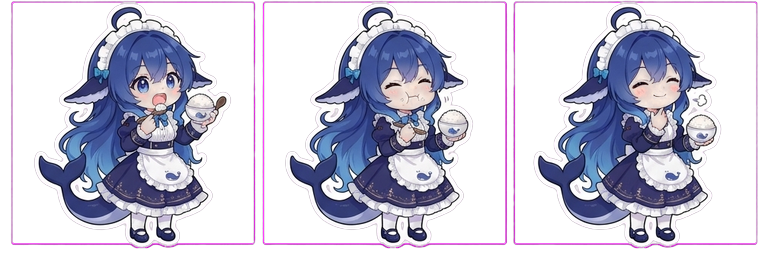
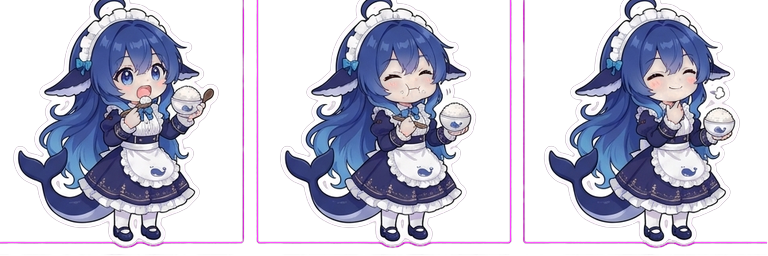
fix(assets): rurtair 外 bbox 去除（--crop-margin）+ play/drag 换 ojxw3 重制版
- slice-sheet.py 新增 --crop-margin：切分前四边裁剪，去掉 AI 给网格加的渐变外框线（rurtair 距边 17px、7px 粗）
- rurtair 重建：eat 用 crop-30 版（渐变带 y14-24 剥净，角色完整）
- ojxw3：行1（非全身）删除；行2 play 3 帧、行3 drag 3 帧（重制版）替换旧 2 帧版
- manifest：drag frames 2→3
- 验证：assets 全 200、浏览器冒烟 OK

diff --git a/scripts/slice-sheet.py b/scripts/slice-sheet.py
@@ -182,11 +182,15 @@ def main():
     ap.add_argument('--key-hi', type=int, default=28, help='色键阈值上界（默认 28）')
     ap.add_argument('--out', default='assets/raw/slices')
     ap.add_argument('--size', type=int, default=256)
+    ap.add_argument('--crop-margin', type=int, default=0, help='切分前从四边裁剪 N px（去掉 AI 加的网格外框线）')
     args = ap.parse_args()
 
     if not (args.grid or args.auto or args.sheet):
         ap.error('必须提供 --grid ROWSxCOLS / --auto / --sheet ROWSxCOLS 之一')
     img = Image.open(args.input).convert('RGBA')
+    if args.crop_margin > 0:
+        img = img.crop((args.crop_margin, args.crop_margin, img.width - args.crop_margin, img.height - args.crop_margin))
+        print(f'cropped margin {args.crop_margin}px', file=sys.stderr)
 
     if args.key:
         if args.key == 'gray':
